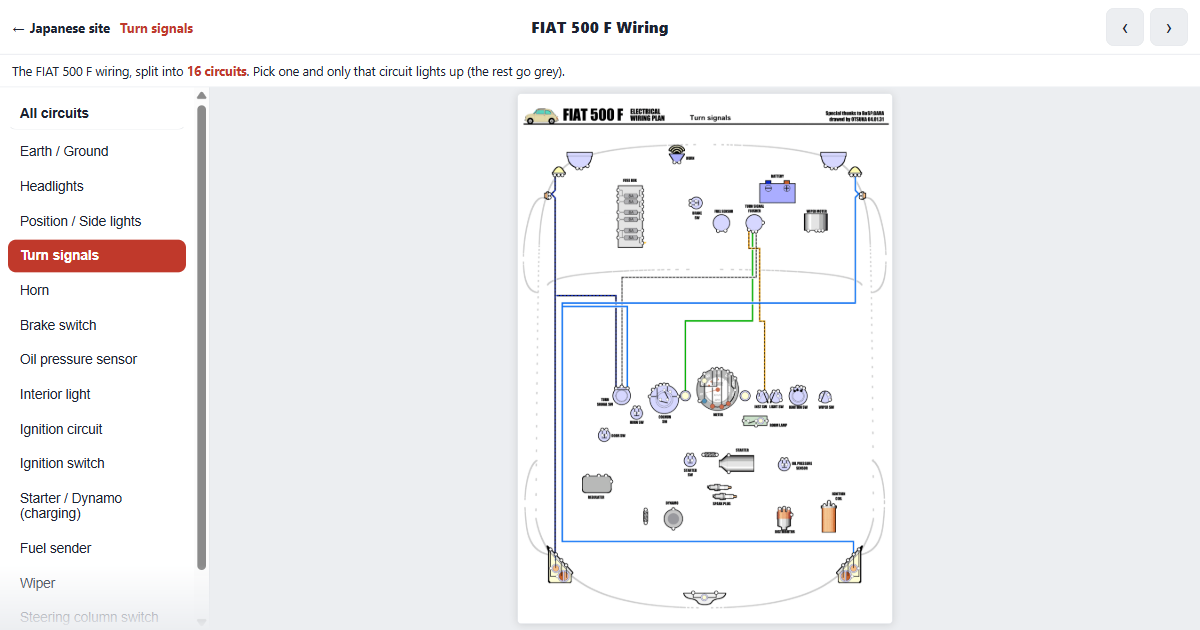
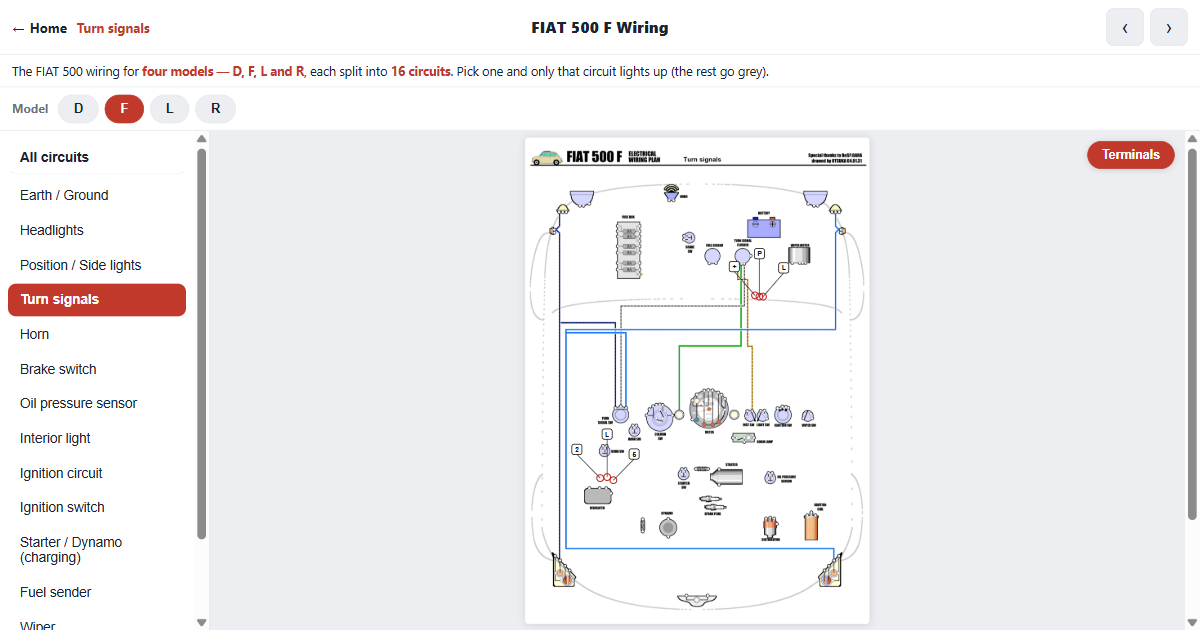
chore(i18n): 配線図ビューアのOG画像を4型式・端子番号入りに差し替え
en/it のポータルカードと og:image に使っている画像が、型式バーが無かった頃
（F型のみ・端子番号なし）のスクリーンショットのままだったため撮り直した。

- og/wiring-en.png・og/wiring-it.png（1200x630）＝型式バー（D・F・L・R）が入り、
  ウインカー系（従来と同じ系統）に端子番号を重ねた状態。撮影時だけ操作ヒント帯・
  全画面ボタン・リード文2行目・端子番号の注記帯を隠して図の高さを回復している
  （487px。型式バーが増えた分、従来の530pxよりわずかに小さい）。
- 入口ページの alt を実際の絵の内容に更新。
- /og/* は _headers で immutable 指定が無いため同名の上書きで反映される
  （immutable なのは /wiring-img/* だけ）。

日本語版 og/wiring-ja.png も同じ古さだが、今回のスコープ外として据え置き。

Claude-Session: https://claude.ai/code/session_01R685yfiVRFUEHfJ2CQn6Lf

diff --git a/it/index.html b/it/index.html
@@ -124,7 +124,7 @@
     </a>
 
     <a class="pt-card" href="/it/wiring-preview">
-      <img src="/og/wiring-it.png" alt="Lo schema elettrico della FIAT 500 F con il solo circuito degli indicatori di direzione a colori" loading="lazy">
+      <img src="/og/wiring-it.png" alt="Lo schema elettrico della FIAT 500 F con il solo circuito degli indicatori di direzione a colori, il selettore dei modelli D/F/L/R e le sigle dei morsetti attivate" loading="lazy">
       <div class="pt-card-body">
         <h2>Schema elettrico</h2>
         <p>

diff --git a/en/index.html b/en/index.html
@@ -123,7 +123,7 @@
     </a>
 
     <a class="pt-card" href="/en/wiring-preview">
-      <img src="/og/wiring-en.png" alt="The FIAT 500 F wiring diagram with only the turn signal circuit in colour" loading="lazy">
+      <img src="/og/wiring-en.png" alt="The FIAT 500 F wiring diagram with only the turn signal circuit in colour, the D/F/L/R model selector and the terminal designations switched on" loading="lazy">
       <div class="pt-card-body">
         <h2>Wiring Diagram Viewer</h2>
         <p>
